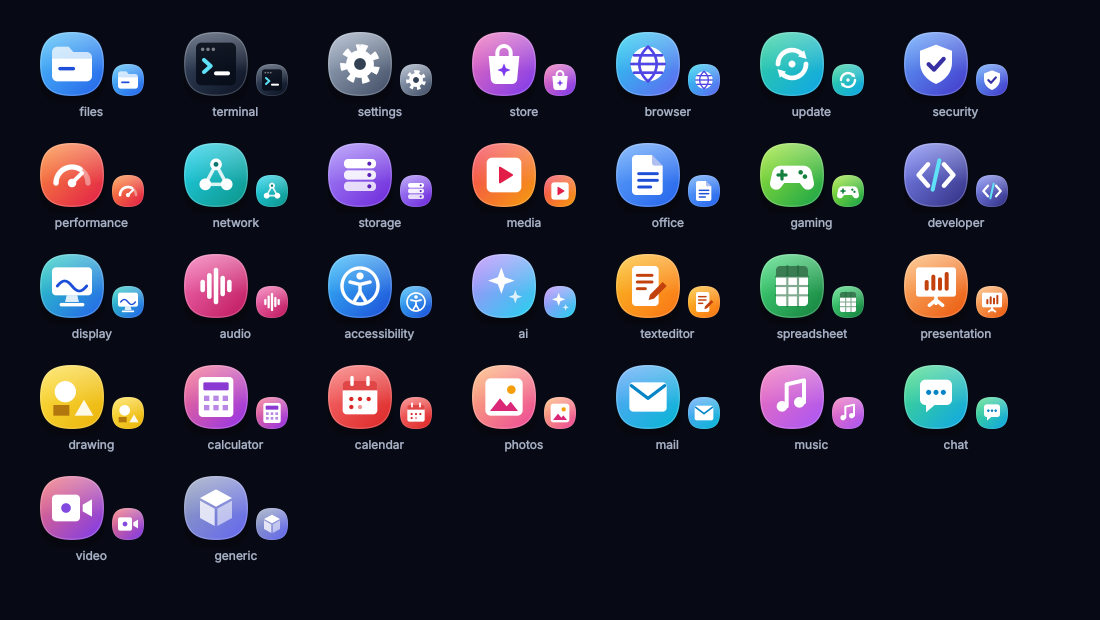
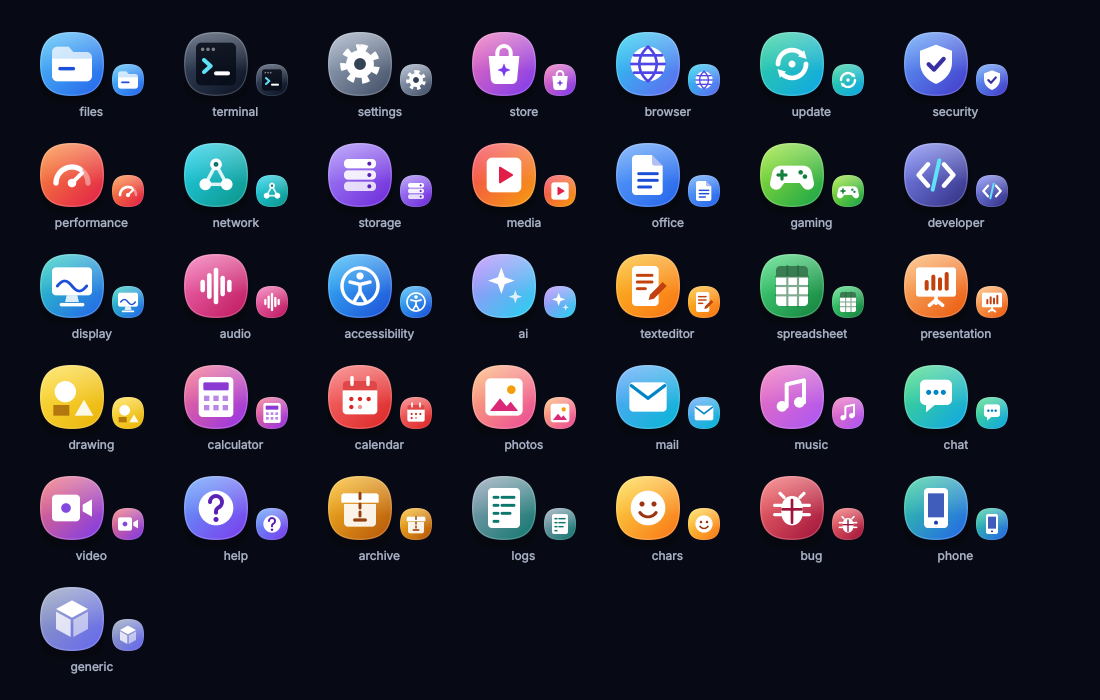
feat(ui): 6 nuove icone per le app KDE osservate nella VM; date in italiano
Dalle schermate reali della VM (run 42509871593): Ark, Help Center, Journald
Browser, KDE Connect, Emoji Selector, KCharSelect, Crashed Processes Viewer
e KDebugSettings avevano icone generiche o non pertinenti. Nuovi glifi
originali help, archive, logs, chars, bug, phone e regole piu' precise
(test con i nomi reali). Date e numeri sempre in italiano come i testi.

Claude-Session: https://claude.ai/code/session_01GBUGbqBgNbjPrE2uX4FZ2X

diff --git a/ui/qml/OmniDesign/AppGlyphs.qml b/ui/qml/OmniDesign/AppGlyphs.qml
@@ -136,6 +136,30 @@ QtObject {
             { d: "M9 17a3 3 0 0 1 3-3h15a3 3 0 0 1 3 3v14a3 3 0 0 1-3 3H12a3 3 0 0 1-3-3z", fill: w },
             { d: "M32 21.5l7-4v13l-7-4z", fill: w },
             { d: "circle:19.5,24,3.6", fill: "ink", opacity: 0.85 } ] },
+        "help": { c1: "#60A5FA", c2: "#7C3AED", ink: "#5B21B6", layers: [
+            { d: "circle:24,24,13", fill: w },
+            { d: "M19.5 19.5a4.5 4.5 0 1 1 6.6 4c-1.4.8-2.1 1.7-2.1 3.2v.8", stroke: "ink", w: 3 },
+            { d: "circle:24,32.6,1.9", fill: "ink" } ] },
+        "archive": { c1: "#FBBF24", c2: "#B45309", ink: "#92400E", layers: [
+            { d: "M10 15a2 2 0 0 1 2-2h24a2 2 0 0 1 2 2v5H10z", fill: w },
+            { d: "M12 21h24v14a3 3 0 0 1-3 3H15a3 3 0 0 1-3-3z", fill: w, opacity: 0.9 },
+            { d: "M24 13v4M24 21v3M24 27v3", stroke: "ink", w: 2.2 },
+            { d: "M20 33h8", stroke: "ink", w: 2.4 } ] },
+        "logs": { c1: "#94A3B8", c2: "#0F766E", ink: "#0F766E", layers: [
+            { d: "M15 9h18a3 3 0 0 1 3 3v24a3 3 0 0 1-3 3H15a3 3 0 0 1-3-3V12a3 3 0 0 1 3-3z", fill: w },
+            { d: "M16.5 16h3M22.5 16h9M16.5 22h3M22.5 22h9M16.5 28h3M22.5 28h6M16.5 34h3", stroke: "ink", w: 2.2 } ] },
+        "chars": { c1: "#FDE047", c2: "#F97316", ink: "#9A3412", layers: [
+            { d: "circle:24,24,13", fill: w },
+            { d: "circle:19.5,21,1.9", fill: "ink" }, { d: "circle:28.5,21,1.9", fill: "ink" },
+            { d: "M18 27.5c3 4.2 9 4.2 12 0", stroke: "ink", w: 2.4 } ] },
+        "bug": { c1: "#F87171", c2: "#9F1239", ink: "#9F1239", layers: [
+            { d: "M16 22h-5M16 29h-5M32 22h5M32 29h5M18 16l-3-3M30 16l3-3", stroke: w, w: 2.4 },
+            { d: "M24 15c5 0 8 4 8 10v3c0 5-3.6 9-8 9s-8-4-8-9v-3c0-6 3-10 8-10z", fill: w },
+            { d: "M24 18v17M17 25h14", stroke: "ink", w: 2 } ] },
+        "phone": { c1: "#34D399", c2: "#2563EB", ink: "#1E40AF", layers: [
+            { d: "M18 9h12a3 3 0 0 1 3 3v24a3 3 0 0 1-3 3H18a3 3 0 0 1-3-3V12a3 3 0 0 1 3-3z", fill: w },
+            { d: "M18 13h12v18H18z", fill: "ink", opacity: 0.85 },
+            { d: "circle:24,35,1.5", fill: "ink" } ] },
         "generic": { c1: "#94A3B8", c2: "#6366F1", ink: "#4F46E5", layers: [
             { d: "M24 10l12 6.5-12 6.5-12-6.5z", fill: w },
             { d: "M12 18.5l11 6v13l-11-6z", fill: w, opacity: 0.78 },
@@ -147,10 +171,16 @@ QtObject {
     // Regole di associazione (ordine = priorità): parole chiave su nome, id .desktop e nome icona.
     readonly property var rules: [
         ["update", ["update", "aggiorn"]],
+        ["help", ["help center", "khelpcenter", "guida", "manuale"]],
+        ["bug", ["crash", "drkonqi", "debug"]],
+        ["logs", ["journal", "ksystemlog", "log viewer", "registro eventi"]],
+        ["phone", ["kde connect", "kdeconnect", "phone", "telefono"]],
+        ["chars", ["emoji", "charselect", "caratteri speciali"]],
+        ["archive", [" ark ", "archiv", "compress", "zip "]],
         ["security", ["security", "sicurezza", "firewall", "kwallet", "password", "keepass"]],
         ["performance", ["perform", "system monitor", "systemmonitor", "monitor di sistema", "ksysguard", "htop"]],
         ["network", ["network", "rete", "nm-connection", "connessioni"]],
-        ["storage", ["storage", "disk", "partition", "filelight", "archiv"]],
+        ["storage", ["storage", "disk", "partition", "filelight"]],
         ["accessibility", ["accessib", "orca"]],
         ["photos", ["imagemagick", "gimp", "krita", "digikam", "gwenview"]],
         ["display", ["display", "schermo", "kscreen"]],

diff --git a/ui/tests/tst_appglyphs.qml b/ui/tests/tst_appglyphs.qml
@@ -34,6 +34,18 @@ Item {
             compare(AppGlyphs.resolve("ImageMagick (color depth=q16)", "display-im6.q16.desktop", "display-im6.q16", ["Graphics"]), "photos")
             compare(AppGlyphs.resolve("Vim", "vim.desktop", "gvim", ["Utility", "TextEditor"]), "texteditor")
         }
+        function test_kdeAppsInTheVm() {
+            // nomi reali osservati nel launcher dentro la VM Fedora Kinoite 45
+            compare(AppGlyphs.resolve("Ark", "org.kde.ark.desktop", "ark", ["Qt", "KDE", "Utility", "Archiving"]), "archive")
+            compare(AppGlyphs.resolve("Help Center", "org.kde.khelpcenter.desktop", "help-browser", ["Qt", "KDE", "Core"]), "help")
+            compare(AppGlyphs.resolve("Journald Browser", "org.kde.kjournaldbrowser.desktop", "utilities-log-viewer", ["Qt", "KDE", "System"]), "logs")
+            compare(AppGlyphs.resolve("KDE Connect", "org.kde.kdeconnect.app.desktop", "kdeconnect", ["Qt", "KDE", "Network"]), "phone")
+            compare(AppGlyphs.resolve("Emoji Selector", "org.kde.plasma.emojier.desktop", "preferences-desktop-emoticons", ["Utility"]), "chars")
+            compare(AppGlyphs.resolve("KCharSelect", "org.kde.kcharselect.desktop", "accessories-character-map", ["Utility"]), "chars")
+            compare(AppGlyphs.resolve("Crashed Processes Viewer", "org.kde.drkonqi.coredump.gui.desktop", "tools-report-bug", ["Qt", "KDE", "System"]), "bug")
+            compare(AppGlyphs.resolve("KDebugSettings", "org.kde.kdebugsettings.desktop", "debug-run", ["Qt", "KDE", "Utility"]), "bug")
+            compare(AppGlyphs.resolve("Park", "x.desktop", "x", []), "generic")      // "ark" solo come parola intera
+        }
         function test_categoryFallback() {
             compare(AppGlyphs.resolve("Qualcosa", "x.desktop", "x", ["Game"]), "gaming")
             compare(AppGlyphs.resolve("Qualcosa", "x.desktop", "x", ["Graphics"]), "photos")

diff --git a/ui/qml/OmniShell/AppCatalog.qml b/ui/qml/OmniShell/AppCatalog.qml
@@ -26,7 +26,7 @@ QtObject {
         settings: "sistema", display: "sistema", audio: "sistema", accessibility: "sistema",
         browser: "internet", mail: "internet", chat: "internet",
         media: "multimedia", music: "multimedia", video: "multimedia",
-        photos: "grafica", drawing: "grafica", office: "ufficio", spreadsheet: "ufficio", presentation: "ufficio", calendar: "ufficio", texteditor: "utilita",
+        photos: "grafica", drawing: "grafica", help: "utilita", archive: "utilita", chars: "utilita", logs: "sistema", bug: "sistema", phone: "internet", office: "ufficio", spreadsheet: "ufficio", presentation: "ufficio", calendar: "ufficio", texteditor: "utilita",
         developer: "sviluppo", terminal: "sviluppo", gaming: "giochi"
     })
     function categoryOf(categories, glyph) {

diff --git a/ui/src/main.cpp b/ui/src/main.cpp
@@ -47,7 +47,9 @@ int main(int argc, char *argv[]) {
     QGuiApplication::setFont(QFont("Inter", 10));
     // I testi del prototipo sono in italiano: se la lingua di sistema non è disponibile
     // (es. "C" nella CI) si usa l'italiano anche per date e numeri.
-    if (QLocale::system().language() == QLocale::C) QLocale::setDefault(QLocale(QLocale::Italian, QLocale::Italy));
+    // I testi dell'interfaccia sono in italiano: date e numeri seguono la stessa lingua
+    // (prima: solo se la lingua di sistema era "C"; nella VM inglese le date erano in inglese).
+    QLocale::setDefault(QLocale(QLocale::Italian, QLocale::Italy));
 
     QCommandLineParser p;
     p.setApplicationDescription("OMNI Shell — prototipo anticipato dell'interfaccia");

diff --git a/ui/README.md b/ui/README.md
@@ -9,7 +9,7 @@ Seconda versione dell'interfaccia originale OMNI in Qt 6/QML. È **codice reale 
 | Componente | Stato | Note |
 |---|---|---|
 | Sistema di design `OmniDesign` | Funzionante | Temi chiaro e scuro, 4 colori d'accento, scala tipografica Inter, superfici "vetro" con ombre leggere, contrasto WCAG verificato dai test per ogni tema e accento |
-| Icone applicative | Funzionante | 29 icone vettoriali originali (squircle con gradiente e glifo); associazione automatica da nome, id `.desktop`, icona e categorie freedesktop |
+| Icone applicative | Funzionante | 35 icone vettoriali originali (squircle con gradiente e glifo); associazione automatica da nome, id `.desktop`, icona e categorie freedesktop |
 | Sfondo "Aurora Flux" | Funzionante | Nebulose in lento movimento, nastri d'aurora, campo di stelle, orizzonte a griglia; animazione ferma con "Movimento ridotto" o "Risparmio risorse" |
 | Desktop | Funzionante | Orologio e data reali, calendario mensile navigabile, attività recenti della sessione, scheda onesta sullo stato del prototipo |
 | Barra superiore | Parziale | Data e ora reali; accesso a launcher, notifiche e impostazioni rapide. **Spazi di lavoro: prototipo** (non collegati a KWin) |

diff --git a/docs/12-ui/prototipo-omni-shell.md b/docs/12-ui/prototipo-omni-shell.md
@@ -61,7 +61,7 @@ Richiesta del proprietario: interfaccia più evoluta, moderna, elegante e origin
 | Area | v1 | v2 |
 |---|---|---|
 | Desktop | Sfondo a gradiente con archi, desktop vuoto | Sfondo "Aurora Flux" animato (nebulose, nastri, stelle, orizzonte), orologio grande, calendario, recenti, stato del prototipo, barra superiore |
-| Icone | Tessere con sigle (FM, TE, ST) | 29 icone vettoriali originali con associazione automatica alle app reali |
+| Icone | Tessere con sigle (FM, TE, ST) | 35 icone vettoriali originali con associazione automatica alle app reali |
 | Dock | Tessere con ingrandimento singolo | Ingrandimento progressivo, etichette, indicatori, rimbalzo, anteprima di apertura, dimensione adattiva, tastiera |
 | Launcher | Griglia con ricerca | Categorie, preferiti, recenti, pertinenza, stelle, navigazione da tastiera, suggerimenti dei tasti |
 | Impostazioni rapide | 6 riquadri e 2 cursori | Intestazione utente, connettività, 4 funzioni operative, cursori a pillola, colori d'accento, ingresso sfalsato |
